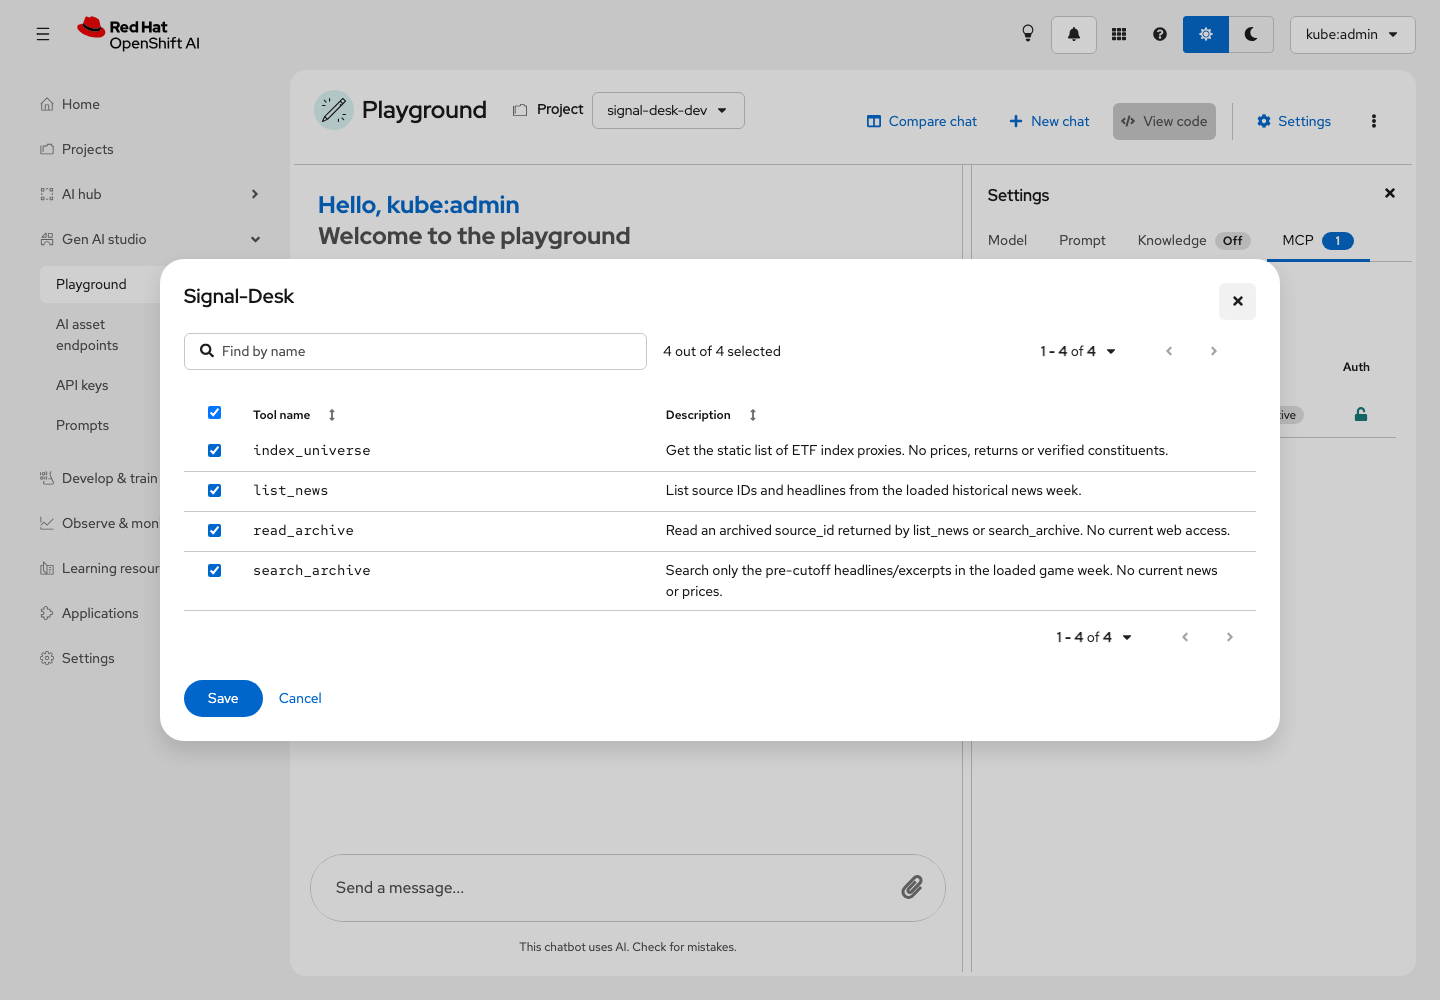
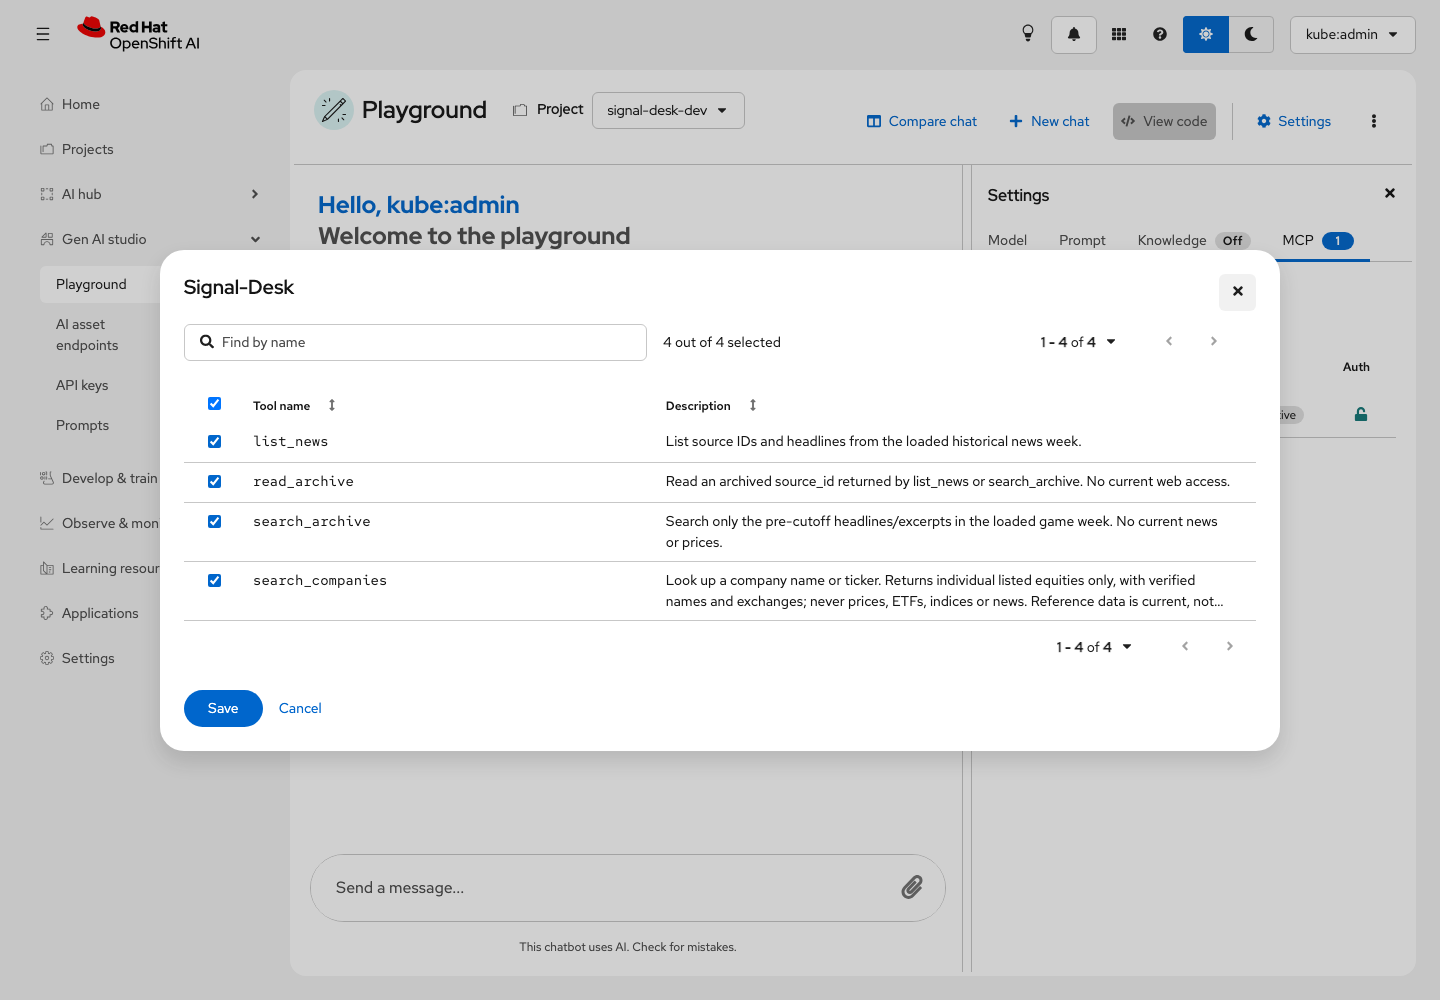
Record live company research, paper valuation and AgentOps acceptance

diff --git a/e2e/BRIEFING-DESK-VALIDATION.md b/e2e/BRIEFING-DESK-VALIDATION.md
@@ -1,5 +1,19 @@
 # Signal Desk: ARO end-to-end validation
 
+## Individual company opportunities — 30 October 2026
+
+On the assigned `8z97s` lab, the existing app was updated from its scoped Dev Spaces identity, tested, committed and pushed to personal Git. Tekton `build-app-2gt2z` succeeded; Argo CD was Synced/Healthy at `78751d08ffc6023e94e2e63145e6255c007fd9f1`. After restart, the running digest matched the new image stream. The single app container uses its prepared ServiceAccount and restricted-v2. The generated **High relevance only** filter and delivery scaffold were preserved; this update did not regenerate the app with OpenCode.
+
+A fresh unauthenticated browser passed the complete company-share game with all 161 saved stories and their existing actual T4 scores. Those scores were reused, not recomputed during this update. Fresh native DeepSeek research on the SK Hynix earnings story called `read_archive`, `search_archive` and two distinct `search_companies` queries. It proposed SK Hynix and Samsung as a direct business and competitor, with cited archived catalysts and risks. A $1,000 virtual SK Hynix position was frozen before price access; its timestamped Yahoo valuation returned −$8.32. Export, the relevance filter, portfolio arithmetic, reset and mobile layout passed without JavaScript errors. Earlier ETF proposal/portfolio files remain stored but are excluded from the new equities state.
+
+Separate real market probes verified NVIDIA and Samsung’s Korean ordinary share `005930.KS`, including its first exchange opening after the cutoff and explicit KRW/USD conversion. Unit checks reject ETF/index suggestions, invented tickers, missing archive citations and invalid FX. Browser fixtures remain explicitly synthetic model/price checks. Go race/vet, both browser fixtures, 43 workshop checks, 17 template checks and the guide build passed.
+
+The native OpenShift AI Playground connected to the public MCP endpoint without a token. Its completed response contains actual `search_archive`, `read_archive` and `search_companies` calls. The six guide screenshots were refreshed from that run. MLflow returned the app research trace in state OK, including both company lookup spans. Every Chromium launch used `--use-mock-keychain`.
+
+Company lookup verifies current identity metadata, not historical fundamentals or business relationships. Proposed benefits remain hypotheses; related companies need not move together. This is an educational replay, and the information cutoff does not erase model training knowledge. Returns include FX where applicable and exclude dividends, fees and slippage.
+
+Evidence: [delivery](results/company-opportunities/delivery.json), [actual browser replay](results/company-opportunities/replay.json), [app UI](results/company-opportunities/replay.png), [NVIDIA and Samsung market probes](results/company-opportunities/live-market.json), [native Playground calls](results/company-opportunities/playground-current.json), [MLflow spans](results/company-opportunities/mlflow.json), [repository-news fixture](results/company-opportunities/saved-news-fixture.json), [archived-week fixture](results/company-opportunities/archived-week-fixture.json).
+
 ## Native agent backend through the CLI — 30 October 2026
 
 On the assigned `8z97s` lab, UI creation produced a Ready Playground in `ai-tenants`; the app expected its backend in `signal-desk-dev`, where no Deployment or Service existed. The guide now creates the native `OGXServer`, configuration and cluster-derived MaaS endpoint explicitly with CLI commands. The operator deploys its Red Hat OGX image. Dashboard discovery labels let the Playground open that prepared backend without provisioning it through the UI.
